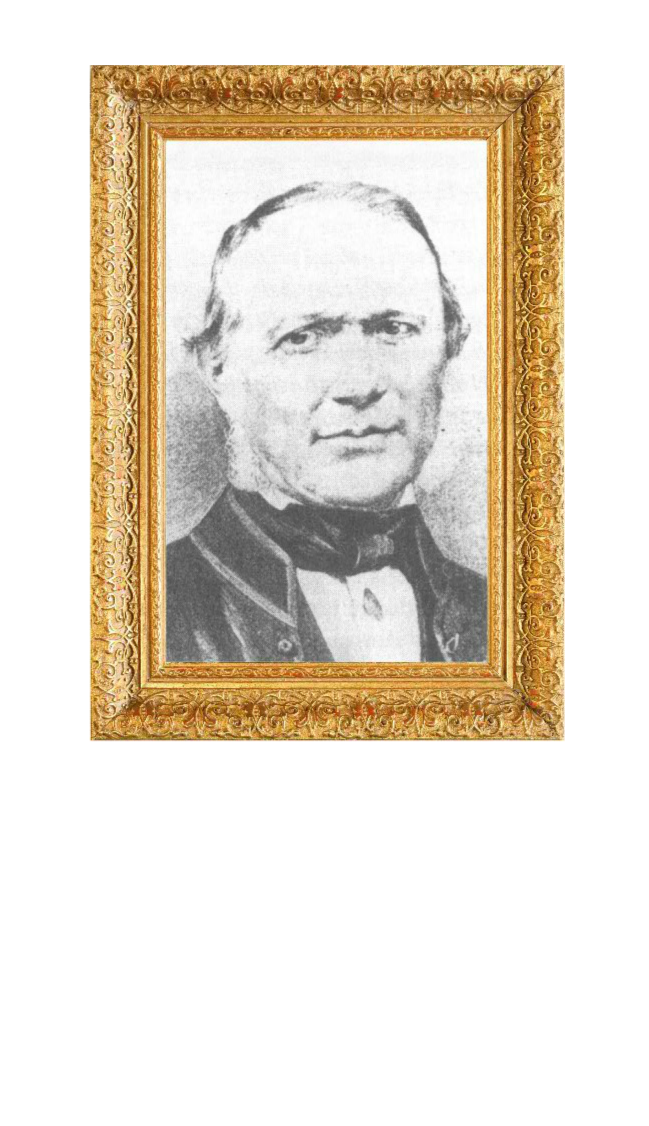
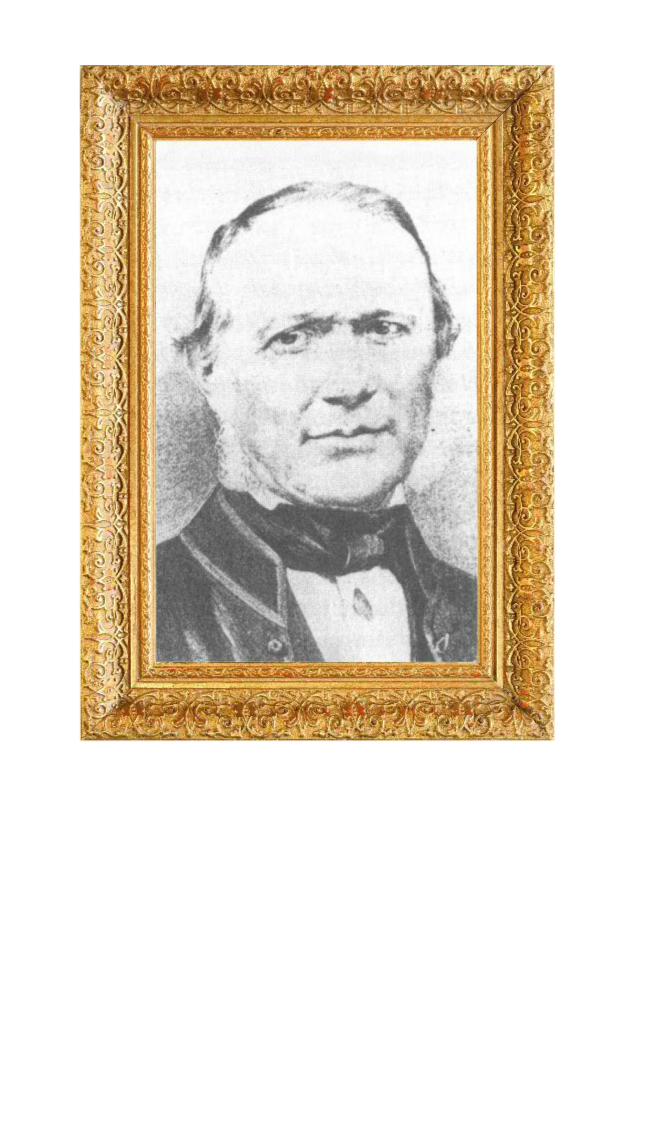
Full Data - images, mp3s

Changed region(s): [[0.1233, 0.0311, 0.8937, 0.6838]]

diff --git a/src/components/Interactive5.tsx b/src/components/Interactive5.tsx
@@ -1,4 +1,4 @@
-import React, { useState, useEffect, useCallback } from 'react';
+import React, { useState, useEffect, useCallback, useRef } from 'react';
 import './Interactive5.sass';
 
 interface PyramidImage {
@@ -11,6 +11,7 @@ interface PyramidImage {
 
 const Interactive5: React.FC = () => {
   const [images, setImages] = useState<PyramidImage[]>([]);
+  const audioRef = useRef<HTMLAudioElement>(null);
 
   // Initialize pyramid structure
   useEffect(() => {
@@ -38,11 +39,21 @@ const Interactive5: React.FC = () => {
 
   // Handle image click
   const handleImageClick = useCallback((imageId: number) => {
-    setImages(prevImages =>
-      prevImages.map(img =>
+    setImages(prevImages => {
+      const clickedImage = prevImages.find(img => img.id === imageId);
+
+      // Play audio only when clicking on hidden images (isVisible is false)
+      if (clickedImage && !clickedImage.isVisible && audioRef.current) {
+        audioRef.current.currentTime = 0;
+        audioRef.current.play().catch(err => {
+          console.warn('Audio playback failed:', err);
+        });
+      }
+
+      return prevImages.map(img =>
         img.id === imageId ? { ...img, isVisible: true } : img
-      )
-    );
+      );
+    });
   }, []);
 
   // Reset function for R key
@@ -104,6 +115,7 @@ const Interactive5: React.FC = () => {
           </div>
         ))}
       </div>
+      <audio ref={audioRef} src="/pages/5/cihla.mp3" preload="auto" />
     </div>
   );
 };

diff --git a/src/components/Interactive6.tsx b/src/components/Interactive6.tsx
@@ -153,7 +153,7 @@ const Interactive6: React.FC = () => {
               </video>
             )}
             {tile.showRedRectangle && (
-              <div className="red-rectangle" />
+              <img src="/pages/6/cakanec.png" alt="Cakanec" className="cakanec-image" />
             )}
           </div>
         ))}

diff --git a/src/components/Interactive6.sass b/src/components/Interactive6.sass
@@ -30,13 +30,13 @@
   cursor: pointer
   z-index: 10
 
-.red-rectangle
+.cakanec-image
   position: absolute
   top: 0
   left: 0
   width: 100%
   height: 100%
-  background: red
+  object-fit: contain
   z-index: 20
 
 // Responsive adjustments for smaller screens
